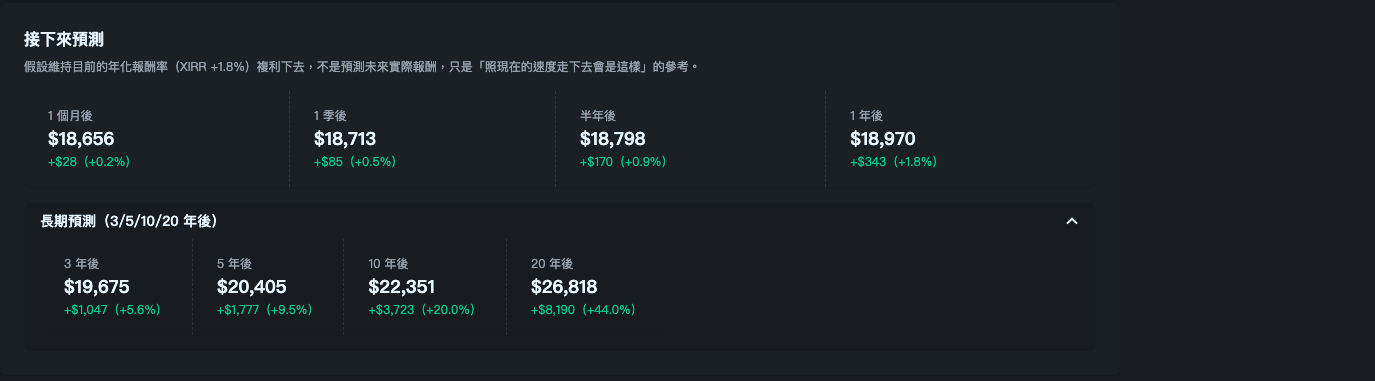
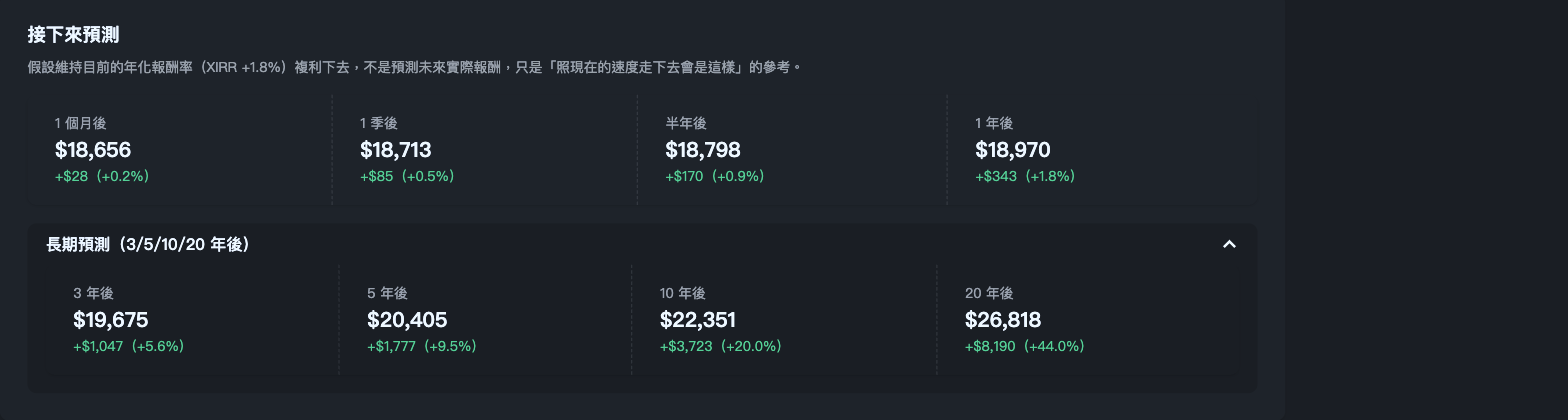
Make 接下來預測 stats span the full card width (#209)
The pace-projection stats rows lacked the w-full class that the top
overview stats bar has, so with only 4 items they clumped left and left
a large dead zone on the right of the card. Add w-full to both the
short-term and long-term rows, and regenerate the README screenshot.

Claude-Session: https://claude.ai/code/session_01Y3ztXL6zAuydPiiFzEvmH3

diff --git a/app/templates/dashboard.html b/app/templates/dashboard.html
@@ -142,7 +142,7 @@
     <div class="card-body">
       <h2 class="card-title text-base">接下來預測</h2>
       <p class="text-xs opacity-60">假設維持目前的年化報酬率（XIRR {{ "{:+.1%}".format(stats.annualized_return) }}）複利下去，不是預測未來實際報酬，只是「照現在的速度走下去會是這樣」的參考。</p>
-      <div class="stats stats-vertical sm:stats-horizontal shadow mt-2">
+      <div class="stats stats-vertical sm:stats-horizontal shadow w-full mt-2">
         {% for p in pace_projection if not p.long_term %}
         <div class="stat">
           <div class="stat-title">{{ p.label }}</div>
@@ -157,7 +157,7 @@
       <details class="collapse collapse-arrow bg-base-200 mt-2">
         <summary class="collapse-title text-sm font-medium py-2 min-h-0">長期預測（3/5/10/20 年後）</summary>
         <div class="collapse-content">
-          <div class="stats stats-vertical sm:stats-horizontal shadow">
+          <div class="stats stats-vertical sm:stats-horizontal shadow w-full">
             {% for p in pace_projection if p.long_term %}
             <div class="stat">
               <div class="stat-title">{{ p.label }}{% if p.extreme %} <span class="tooltip" data-tip="時間拉得越長，短期波動被複利放大得越誇張，數字失真風險越高，僅供參考">⚠</span>{% endif %}</div>
